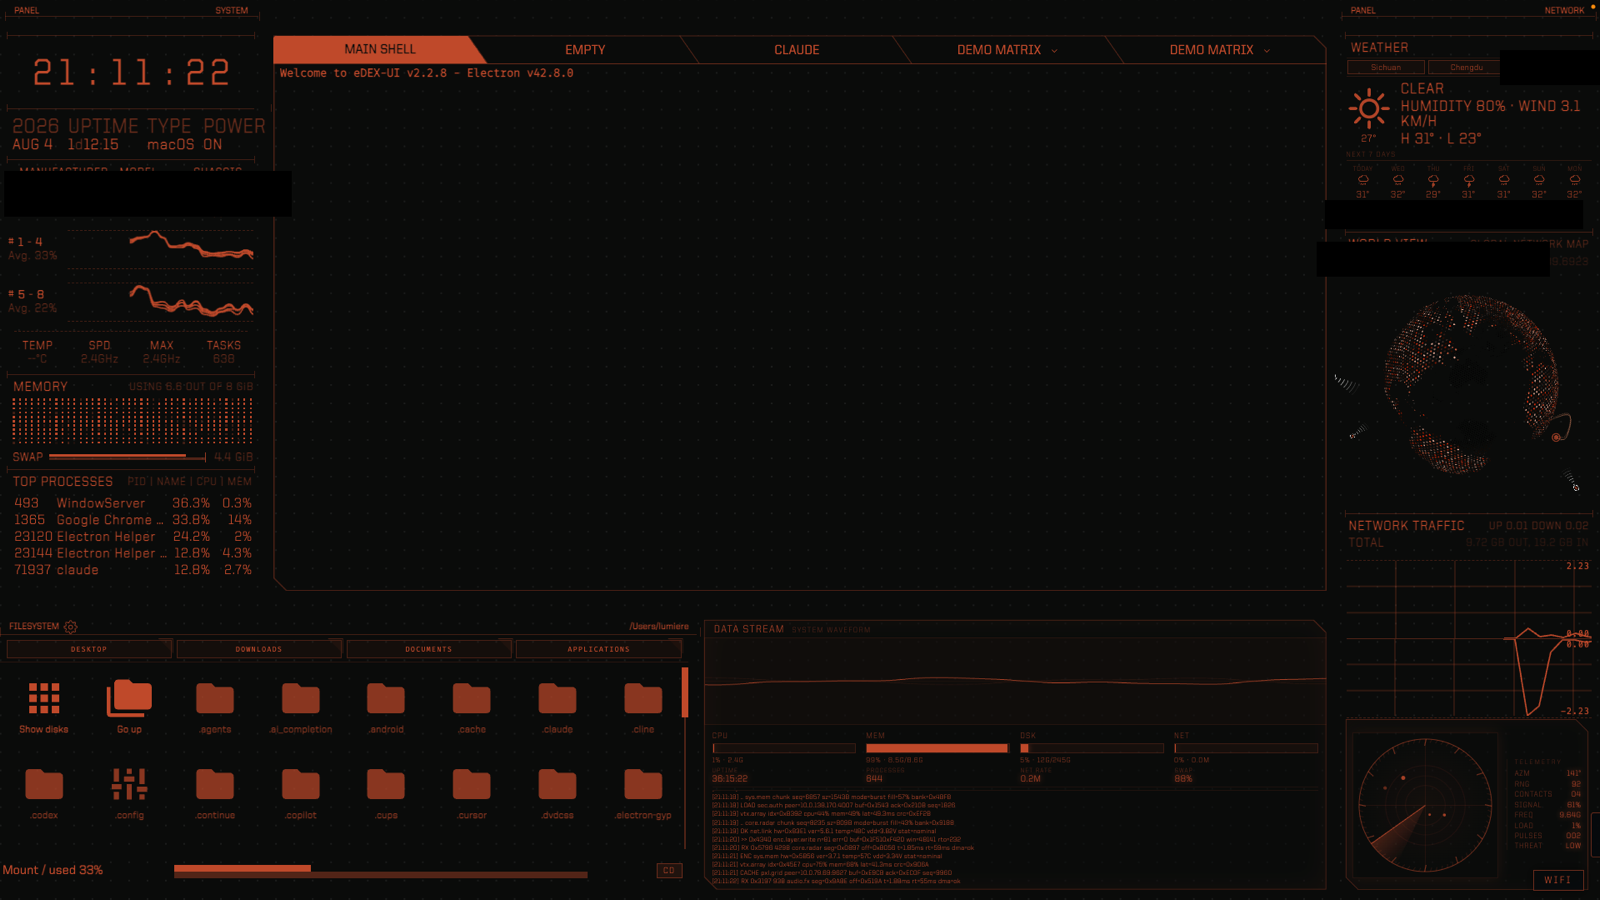
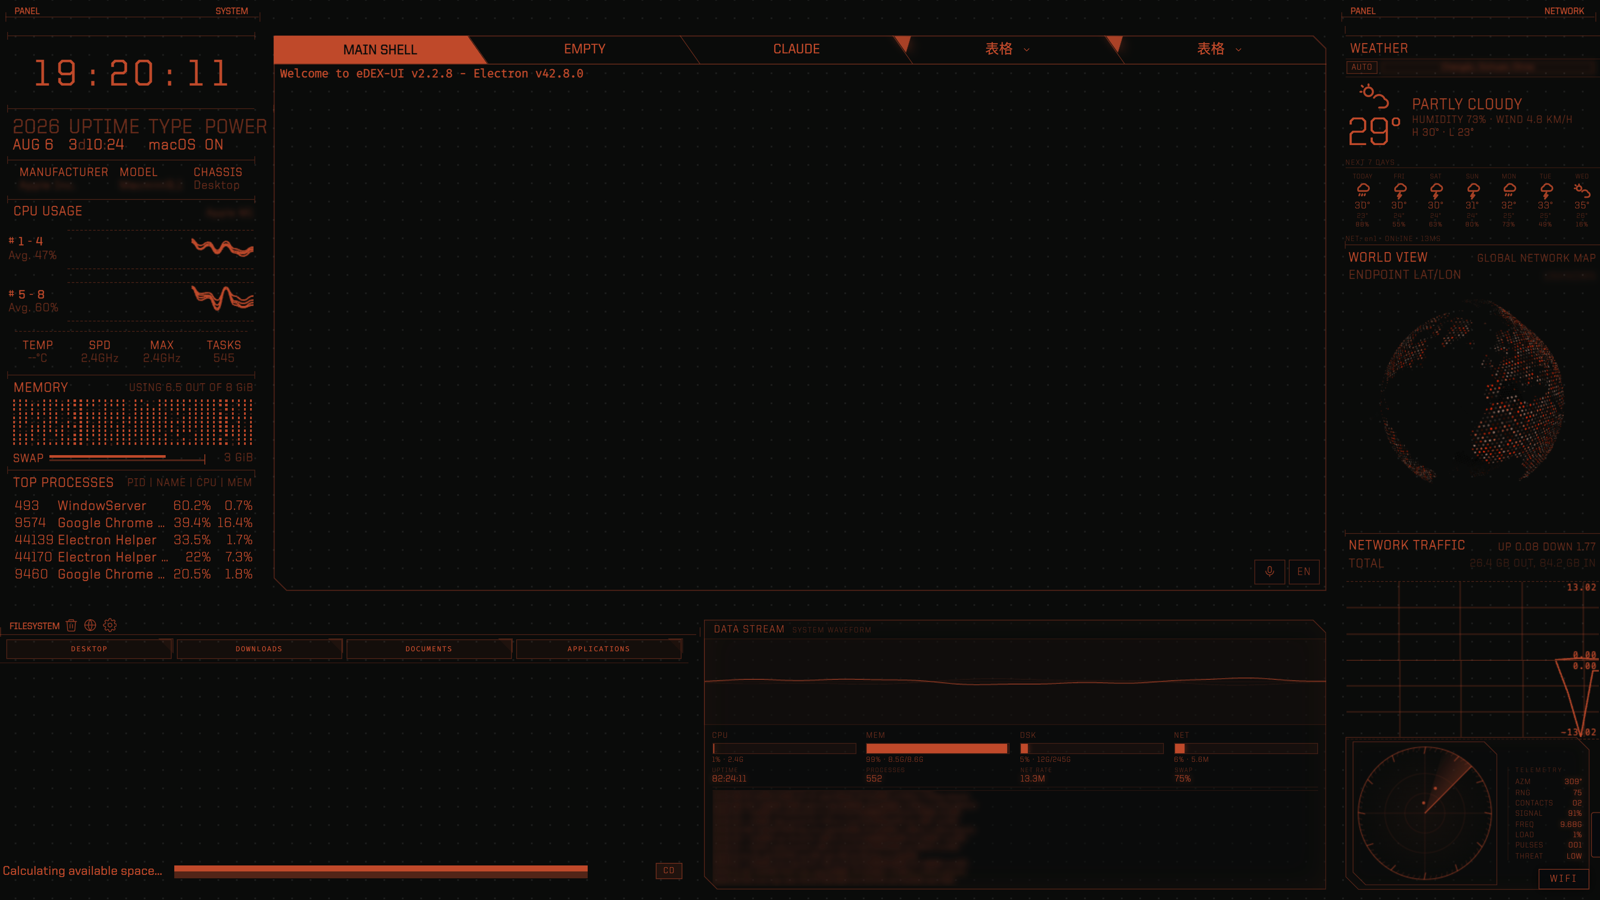
docs(media): refresh README screenshots and repo description
Regenerate the three theme screenshots (tron/blade/matrix) with privacy
sensitive data blurred in-browser (device model, CPU, weather city, peer IPs,
globe coordinates) instead of black bars, and add both sci-fi lock-screen
modes (terminal passcode vault + matrix-rain keypad). Refresh the GitHub
description to match the current feature set.

diff --git a/README.md b/README.md
@@ -22,16 +22,24 @@ eDEX-OS is built on a heavily customized [eDEX-UI](https://github.com/GitSquared
 | **Native fullscreen** | Hit the fullscreen button and the app takes over the real screen **completely natively** (no more streaming). A subtle `◀ EDEX` button in the corner — or `Ctrl+Shift+Q` — drops you back to eDEX. |
 | **Embedded Claude Code (tab 3)** | The 3rd terminal tab is a dedicated Claude Code workspace. |
 | **Terminal + system monitoring** | Full-featured terminal emulator (tabs, colors, mouse, `curses`), live CPU/RAM/process/network monitoring, and a directory viewer that follows the terminal's CWD. |
-| **Deeply customized modules** | CyberPanel radar, mini music controller, media player, ENCOM-style globe, web-app panel, and a pure-code-drawn sci-fi screensaver / lock screen. |
+| **Deeply customized modules** | CyberPanel radar, mini music controller, media player, ENCOM-style globe, web-app panel, and a pure-code-drawn sci-fi lock screen (terminal vault + matrix-rain keypad). |
 | **Keyboard-operable UI** | Settings and panels navigate with arrow keys — designed for keyboard / gamepad-first operation. |
 
 ## 📸 Screenshots
+
+**Themes**
 
 ![Default theme](media/screenshot_default.png)
 
 ![Blade theme](media/screenshot_blade.png)
 
 ![Matrix theme](media/screenshot_matrix.png)
+
+**Lock screen** — two sci-fi modes: a terminal passcode vault and a fullscreen matrix-rain keypad
+
+![Terminal lock](media/screenshot_lock_code.png)
+
+![Matrix-rain lock](media/screenshot_lock_matrix.png)
 
 <details>
 <summary>Demo animation</summary>
